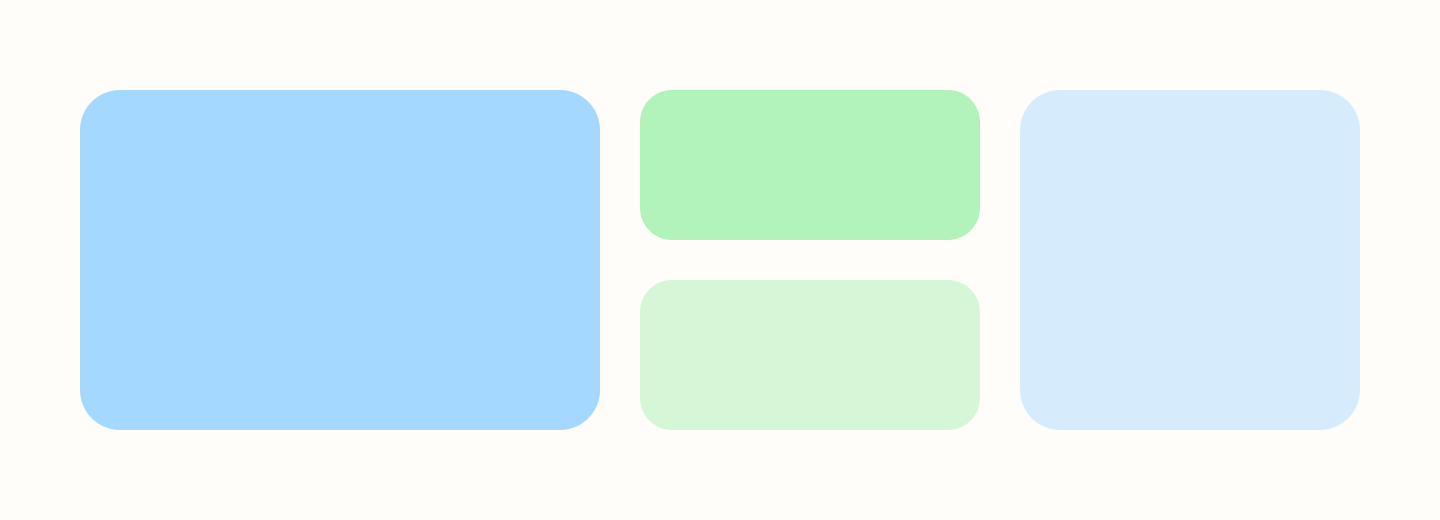
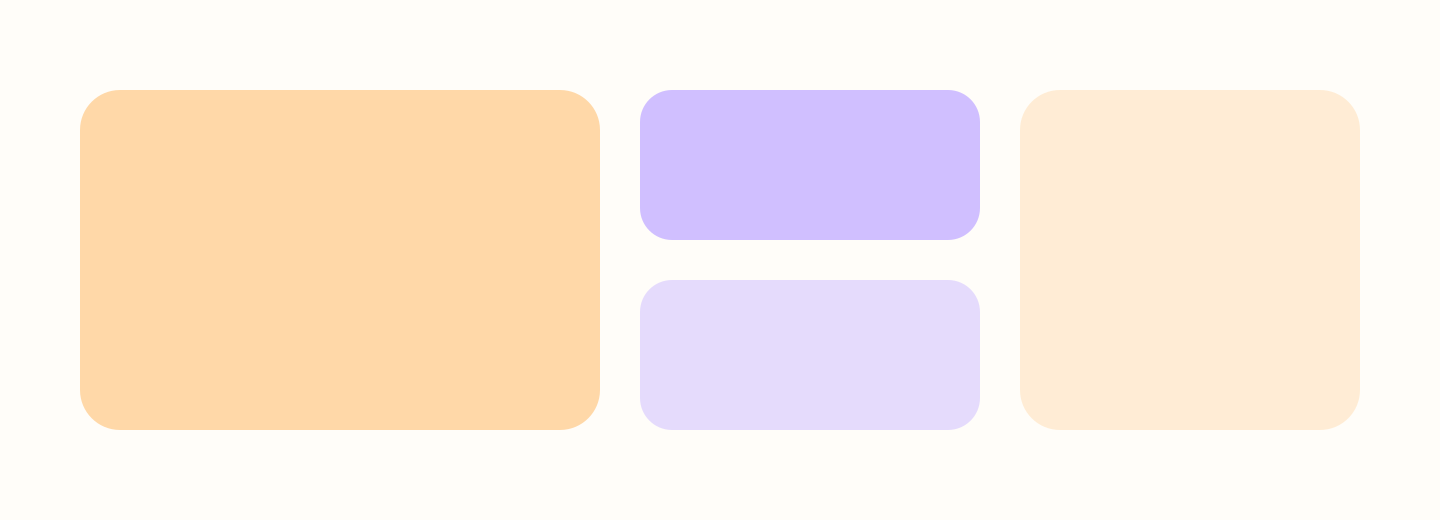
content(blog): best start pages in 2026 listicle; tick Wave 5 in the roadmap
Also expands the banner palette (frontend/scripts/banner-palette.mjs) so
the four Wave-5 posts stop hash-colliding into identical thumbnails, and
verifies the five originally-published banners stay byte-identical.

Claude-Session: https://claude.ai/code/session_018xGUqZse2QXBPHcTCpKf1t

diff --git a/frontend/src/app/features/marketing/content.generated.ts b/frontend/src/app/features/marketing/content.generated.ts
@@ -102,6 +102,29 @@ export const GUIDES: ContentDoc[] = [
 
 export const POSTS: ContentDoc[] = [
   {
+    "slug": "best-start-pages-2026",
+    "title": "The best start pages in 2026",
+    "description": "An honest look at the start pages and dashboard tools worth using in 2026 — what each one is actually for, what the free tiers include, and how to pick.",
+    "date": "2026-08-02",
+    "category": "Comparison",
+    "readingMinutes": 8,
+    "faq": [
+      {
+        "q": "What's the best free start page?",
+        "a": "It depends on what you're trying to do, not which one wins outright. Toby's free plan gives you 60 saved tabs and unlimited members; Workona's free plan gives you 5 project spaces used forever below that cap; start.me's free plan gives you three ad-supported start pages with unlimited widgets and bookmarks; TulipLot's free plan gives you five live cells plus one ad. All four cost nothing to start, and the right one depends on which job matches your day."
+      },
+      {
+        "q": "Do any of these work without creating an account?",
+        "a": "TulipLot does: the try page gives you two live cells with no account required, saved to that browser only, and it carries into your account automatically if you sign up later. That's the one entry on this list we can confirm doesn't need a signup, because it's ours and we control the page."
+      },
+      {
+        "q": "Is a browser start page still worth using in 2026?",
+        "a": "For plenty of people, yes, though not always in the portal-page sense the term used to mean. If your day is a handful of sites you check constantly, a dashboard or start page keeps them in one predictable place instead of buried in a pile of tabs. If it's genuinely just two or three sites, your browser's built-in start page or a couple of bookmarks already covers it, and none of the tools above are solving a real problem for you."
+      }
+    ],
+    "html": "<p>&quot;Best browser start page&quot; searches turn up lists that all do the same thing: rank five or six tools by opinion and call it done. That&#39;s not very useful, because these tools aren&#39;t actually competing for the same job. Some save tabs you&#39;ll reopen later. Some group tabs into projects you save and restore. Some build a page out of bookmarks and widgets. One renders the actual sites live, all at once, in a fixed grid.</p>\n<p>So instead of a ranked list, here&#39;s a list organized by what you&#39;re actually trying to do, with real prices and real limits for each tool, not marketing copy. One of the entries below is ours. We&#39;ll say so plainly when we get there, and it isn&#39;t first.</p>\n<h2>Start with what your browser already gives you</h2>\n<p>Before installing anything, know what&#39;s already free. Every major browser lets you set a start page, a home page, or a new tab page in its own settings, no extension required, and pinning a tab or bookmarking a handful of sites covers plenty of people&#39;s actual routine. If your day genuinely comes down to two or three sites, that built-in setup is the right answer, and everything below is solving a problem you may not have. <a href=\"/blog/what-is-a-browser-start-page\">What is a browser start page</a> covers the differences between those three browser settings in more detail if you want it.</p>\n<h2>If you save more tabs than you use: Toby</h2>\n<p>Toby&#39;s own pitch is &quot;Stop Drowning in Tabs,&quot; and that&#39;s an honest description of the job: you save a tab&#39;s link into a Toby collection, close the tab, and reopen the saved link whenever you actually need it again. It&#39;s a tool for people whose browser fills up with research links, articles, and reference tabs faster than they can use them.</p>\n<p>The free &quot;Starter&quot; plan costs nothing and lets you save and manage up to 60 tabs across all your collections, with no cap on how many members can join the account. Past that limit, Productivity is $6 per member per month, or $4.50 per member per month billed yearly ($54/year), and removes the 60-tab ceiling along with adding advanced search and duplicate removal. Team runs $10 per member per month, or $8 billed yearly, and adds SSO and centralized billing. Toby prices per seat because it&#39;s built as a collaboration tool, so those team-tier numbers scale with how many people share your collections, not with what one person alone would pay.</p>\n<h2>If you&#39;re juggling several ongoing projects: Workona</h2>\n<p>Workona&#39;s framing is &quot;Get your tabs under control,&quot; and it does that by grouping a project&#39;s tabs into a Space that auto-saves as you work and syncs across your devices. Close it down, pick it back up next week, and it&#39;s exactly how you left it. It&#39;s built for people running more than one active project at a time, each with its own cluster of tabs worth keeping organized rather than scattered across the tab bar.</p>\n<p>The free plan is real, tucked into a pricing-page FAQ rather than shown as its own plan card, and capped at 5 spaces; Workona&#39;s own FAQ says it &quot;can be used forever&quot; below that cap, it just won&#39;t let you create a new space once you hit it. Pro is listed as &quot;Starting at $7 / month,&quot; confirmed to be the annual-billed rate, and adds unlimited spaces, 90-day session backups, and integrations. Team starts at $8 per user per month with a 3-user minimum, again priced for groups rather than one person.</p>\n<h2>If you want a tidy page of links and widgets: start.me</h2>\n<p>start.me calls itself, in its own title tag, a &quot;Bookmark Manager, Custom Start Page &amp; New Tab,&quot; and its hero line sums up the pitch: &quot;All your important links, one click away.&quot; You build a page out of mostly first-party widgets, weather, RSS feeds, notes, bookmark groups, and click through to whatever those bookmarks point at. It&#39;s a genuinely mature product: a July 2026 changelog alone shipped a bookmark clean-up tool, a rebuilt Notes editor, new timer and page-introduction widgets, wider 7-column layouts, and AI-driven site suggestions.</p>\n<p>The free plan costs nothing, includes advertising by start.me&#39;s own description, and caps you at three personal start pages, though widgets and bookmarks inside those three pages are unlimited. Personal PRO is $25 a year (about $2.08 a month), removes the ads, unlocks unlimited pages, and adds 27 PRO-only features and widgets. Team is $25 a month billed annually for 10 users, a different, group-priced product.</p>\n<h2>If you want a handful of sites live and visible all day: TulipLot</h2>\n<p>This one&#39;s ours, so take the framing with that in mind: TulipLot doesn&#39;t save tabs, group them into projects, or build a page out of widgets. It renders. A TulipLot dashboard is a fixed 3×2 grid, six cells, and whatever sits in a cell is a live, interactive version of that actual site: an inbox showing new mail as it arrives, a calendar you click straight into, not a saved link or a bookmark pointing at either one.</p>\n<p>Free accounts get five usable cells plus one ad cell fixed in the bottom-right slot; Premium drops the ad and unlocks all six for $4 a month. You can also try it with no account at all: two live cells load immediately at <a href=\"/try\">/try</a>, saved to that browser only, and they carry into your dashboard automatically if you sign up later. Every cell fills from a built-in catalog or from any HTTPS URL you paste in yourself, and the free TulipLot Companion, a Chrome extension, unlocks embedding for many sites that would otherwise refuse to load in a frame. Not every site can be embedded this way, though: a handful of major login-gated services, Gmail and Google Calendar among them, never allow embedding under any circumstances and become one-click launchers instead, a cell you click to open the site in its own tab rather than seeing it live inline. If your problem is a small set of sites you check constantly rather than a growing pile of things to save, that&#39;s the job this fills.</p>\n<h2>Single-user pricing, side by side</h2>\n<p>These four charge for genuinely different things, so treat this as a price reference, not proof any one is a better deal. A &quot;60 tabs vs 5 spaces vs 3 pages vs 5 cells&quot; row would count four unrelated things as if they were the same unit, so free-tier specifics are covered in each section above instead; this table sticks to price, where a single-user comparison is fair. Toby and Workona price per team member, so the figures below are what one person alone would pay on the plan built for solo use, not the team price.</p>\n<table>\n<thead>\n<tr>\n<th>Tool</th>\n<th>Free plan</th>\n<th>Paid plan, single user</th>\n</tr>\n</thead>\n<tbody><tr>\n<td>Toby</td>\n<td>$0</td>\n<td>Productivity: $6/month, or $4.50/month billed yearly ($54/year)</td>\n</tr>\n<tr>\n<td>Workona</td>\n<td>$0</td>\n<td>Pro: starting at $7/month, annual-billed</td>\n</tr>\n<tr>\n<td>start.me</td>\n<td>$0, includes advertising</td>\n<td>Personal PRO: $25/year (about $2.08/month)</td>\n</tr>\n<tr>\n<td>TulipLot</td>\n<td>$0, includes one ad cell</td>\n<td>Premium: $4/month</td>\n</tr>\n</tbody></table>\n<h2>How to pick</h2>\n<p>If your problem is too many tabs piling up faster than you can use them, Toby solves that. If it&#39;s several ongoing projects each needing their own saved, restorable set of tabs, that&#39;s Workona&#39;s job. If you want a tidy home page of organized links, weather, and notes, start.me does that well and has for a while. And if the problem isn&#39;t saving or organizing anything, it&#39;s wanting a handful of specific sites open and live at the same time every day, that&#39;s what TulipLot is for. None of these are mutually exclusive; plenty of people reasonably run two at once, one for what they&#39;re not actively using and one for what they check constantly.</p>\n<h2>How we&#39;ll keep this current</h2>\n<p>Prices and free-tier limits change, and a stale &quot;best of&quot; list is worse than no list at all. We review this page quarterly and re-verify every price and limit against each vendor&#39;s own site before touching a word.</p>\n<h2>Questions people ask</h2>\n<h3>What&#39;s the best free start page?</h3>\n<p>It depends on what you&#39;re trying to do, not which one wins outright. Toby&#39;s free plan gives you 60 saved tabs and unlimited members; Workona&#39;s free plan gives you 5 project spaces used forever below that cap; start.me&#39;s free plan gives you three ad-supported start pages with unlimited widgets and bookmarks; TulipLot&#39;s free plan gives you five live cells plus one ad. All four cost nothing to start, and the right one depends on which job matches your day.</p>\n<h3>Do any of these work without creating an account?</h3>\n<p>TulipLot does: <a href=\"/try\">the try page</a> gives you two live cells with no account required, saved to that browser only, and it carries into your account automatically if you sign up later. That&#39;s the one entry on this list we can confirm doesn&#39;t need a signup, because it&#39;s ours and we control the page.</p>\n<h3>Is a browser start page still worth using in 2026?</h3>\n<p>For plenty of people, yes, though not always in the portal-page sense the term used to mean. If your day is a handful of sites you check constantly, a dashboard or start page keeps them in one predictable place instead of buried in a pile of tabs. If it&#39;s genuinely just two or three sites, your browser&#39;s built-in start page or a couple of bookmarks already covers it, and none of the tools above are solving a real problem for you.</p>\n<p>Whichever job matches your day, pick the tool built for it rather than whichever one ranks first on a list. If that&#39;s a handful of sites you want open and live at once, <a href=\"/try\">try TulipLot</a> with no account, or see exactly what <a href=\"/guides/premium-vs-free\">Free and Premium</a> each include before deciding.</p>\n"
+  },
+  {
     "slug": "gmail-and-calendar-side-by-side",
     "title": "Gmail and Google Calendar side by side",
     "description": "Google's own side-panel, a second window, and a dashboard launcher — three honest ways to keep mail and calendar in view at once, including what Google won't let you embed.",

diff --git a/content/blog/best-start-pages-2026.md b/content/blog/best-start-pages-2026.md
@@ -1,0 +1,75 @@
+---
+title: The best start pages in 2026
+slug: best-start-pages-2026
+description: An honest look at the start pages and dashboard tools worth using in 2026 — what each one is actually for, what the free tiers include, and how to pick.
+date: 2026-08-02
+category: Comparison
+---
+# The best start pages in 2026
+
+"Best browser start page" searches turn up lists that all do the same thing: rank five or six tools by opinion and call it done. That's not very useful, because these tools aren't actually competing for the same job. Some save tabs you'll reopen later. Some group tabs into projects you save and restore. Some build a page out of bookmarks and widgets. One renders the actual sites live, all at once, in a fixed grid.
+
+So instead of a ranked list, here's a list organized by what you're actually trying to do, with real prices and real limits for each tool, not marketing copy. One of the entries below is ours. We'll say so plainly when we get there, and it isn't first.
+
+## Start with what your browser already gives you
+
+Before installing anything, know what's already free. Every major browser lets you set a start page, a home page, or a new tab page in its own settings, no extension required, and pinning a tab or bookmarking a handful of sites covers plenty of people's actual routine. If your day genuinely comes down to two or three sites, that built-in setup is the right answer, and everything below is solving a problem you may not have. [What is a browser start page](/blog/what-is-a-browser-start-page) covers the differences between those three browser settings in more detail if you want it.
+
+## If you save more tabs than you use: Toby
+
+Toby's own pitch is "Stop Drowning in Tabs," and that's an honest description of the job: you save a tab's link into a Toby collection, close the tab, and reopen the saved link whenever you actually need it again. It's a tool for people whose browser fills up with research links, articles, and reference tabs faster than they can use them.
+
+The free "Starter" plan costs nothing and lets you save and manage up to 60 tabs across all your collections, with no cap on how many members can join the account. Past that limit, Productivity is $6 per member per month, or $4.50 per member per month billed yearly ($54/year), and removes the 60-tab ceiling along with adding advanced search and duplicate removal. Team runs $10 per member per month, or $8 billed yearly, and adds SSO and centralized billing. Toby prices per seat because it's built as a collaboration tool, so those team-tier numbers scale with how many people share your collections, not with what one person alone would pay.
+
+## If you're juggling several ongoing projects: Workona
+
+Workona's framing is "Get your tabs under control," and it does that by grouping a project's tabs into a Space that auto-saves as you work and syncs across your devices. Close it down, pick it back up next week, and it's exactly how you left it. It's built for people running more than one active project at a time, each with its own cluster of tabs worth keeping organized rather than scattered across the tab bar.
+
+The free plan is real, tucked into a pricing-page FAQ rather than shown as its own plan card, and capped at 5 spaces; Workona's own FAQ says it "can be used forever" below that cap, it just won't let you create a new space once you hit it. Pro is listed as "Starting at $7 / month," confirmed to be the annual-billed rate, and adds unlimited spaces, 90-day session backups, and integrations. Team starts at $8 per user per month with a 3-user minimum, again priced for groups rather than one person.
+
+## If you want a tidy page of links and widgets: start.me
+
+start.me calls itself, in its own title tag, a "Bookmark Manager, Custom Start Page & New Tab," and its hero line sums up the pitch: "All your important links, one click away." You build a page out of mostly first-party widgets, weather, RSS feeds, notes, bookmark groups, and click through to whatever those bookmarks point at. It's a genuinely mature product: a July 2026 changelog alone shipped a bookmark clean-up tool, a rebuilt Notes editor, new timer and page-introduction widgets, wider 7-column layouts, and AI-driven site suggestions.
+
+The free plan costs nothing, includes advertising by start.me's own description, and caps you at three personal start pages, though widgets and bookmarks inside those three pages are unlimited. Personal PRO is $25 a year (about $2.08 a month), removes the ads, unlocks unlimited pages, and adds 27 PRO-only features and widgets. Team is $25 a month billed annually for 10 users, a different, group-priced product.
+
+## If you want a handful of sites live and visible all day: TulipLot
+
+This one's ours, so take the framing with that in mind: TulipLot doesn't save tabs, group them into projects, or build a page out of widgets. It renders. A TulipLot dashboard is a fixed 3×2 grid, six cells, and whatever sits in a cell is a live, interactive version of that actual site: an inbox showing new mail as it arrives, a calendar you click straight into, not a saved link or a bookmark pointing at either one.
+
+Free accounts get five usable cells plus one ad cell fixed in the bottom-right slot; Premium drops the ad and unlocks all six for $4 a month. You can also try it with no account at all: two live cells load immediately at [/try](/try), saved to that browser only, and they carry into your dashboard automatically if you sign up later. Every cell fills from a built-in catalog or from any HTTPS URL you paste in yourself, and the free TulipLot Companion, a Chrome extension, unlocks embedding for many sites that would otherwise refuse to load in a frame. Not every site can be embedded this way, though: a handful of major login-gated services, Gmail and Google Calendar among them, never allow embedding under any circumstances and become one-click launchers instead, a cell you click to open the site in its own tab rather than seeing it live inline. If your problem is a small set of sites you check constantly rather than a growing pile of things to save, that's the job this fills.
+
+## Single-user pricing, side by side
+
+These four charge for genuinely different things, so treat this as a price reference, not proof any one is a better deal. A "60 tabs vs 5 spaces vs 3 pages vs 5 cells" row would count four unrelated things as if they were the same unit, so free-tier specifics are covered in each section above instead; this table sticks to price, where a single-user comparison is fair. Toby and Workona price per team member, so the figures below are what one person alone would pay on the plan built for solo use, not the team price.
+
+| Tool | Free plan | Paid plan, single user |
+|---|---|---|
+| Toby | $0 | Productivity: $6/month, or $4.50/month billed yearly ($54/year) |
+| Workona | $0 | Pro: starting at $7/month, annual-billed |
+| start.me | $0, includes advertising | Personal PRO: $25/year (about $2.08/month) |
+| TulipLot | $0, includes one ad cell | Premium: $4/month |
+
+## How to pick
+
+If your problem is too many tabs piling up faster than you can use them, Toby solves that. If it's several ongoing projects each needing their own saved, restorable set of tabs, that's Workona's job. If you want a tidy home page of organized links, weather, and notes, start.me does that well and has for a while. And if the problem isn't saving or organizing anything, it's wanting a handful of specific sites open and live at the same time every day, that's what TulipLot is for. None of these are mutually exclusive; plenty of people reasonably run two at once, one for what they're not actively using and one for what they check constantly.
+
+## How we'll keep this current
+
+Prices and free-tier limits change, and a stale "best of" list is worse than no list at all. We review this page quarterly and re-verify every price and limit against each vendor's own site before touching a word.
+
+## Questions people ask
+
+### What's the best free start page?
+
+It depends on what you're trying to do, not which one wins outright. Toby's free plan gives you 60 saved tabs and unlimited members; Workona's free plan gives you 5 project spaces used forever below that cap; start.me's free plan gives you three ad-supported start pages with unlimited widgets and bookmarks; TulipLot's free plan gives you five live cells plus one ad. All four cost nothing to start, and the right one depends on which job matches your day.
+
+### Do any of these work without creating an account?
+
+TulipLot does: [the try page](/try) gives you two live cells with no account required, saved to that browser only, and it carries into your account automatically if you sign up later. That's the one entry on this list we can confirm doesn't need a signup, because it's ours and we control the page.
+
+### Is a browser start page still worth using in 2026?
+
+For plenty of people, yes, though not always in the portal-page sense the term used to mean. If your day is a handful of sites you check constantly, a dashboard or start page keeps them in one predictable place instead of buried in a pile of tabs. If it's genuinely just two or three sites, your browser's built-in start page or a couple of bookmarks already covers it, and none of the tools above are solving a real problem for you.
+
+Whichever job matches your day, pick the tool built for it rather than whichever one ranks first on a list. If that's a handful of sites you want open and live at once, [try TulipLot](/try) with no account, or see exactly what [Free and Premium](/guides/premium-vs-free) each include before deciding.

diff --git a/docs/seo/2026-08-01-seo-audit-remediation.md b/docs/seo/2026-08-01-seo-audit-remediation.md
@@ -112,10 +112,12 @@ Highest-leverage new pages first; each targets a SERP currently held by forums, 
 
 ## Wave 5 — Commercial content (~3 days)
 
-- [ ] **5.1 "TulipLot vs Toby / Toby alternative"** — Toby's 60-tab free-plan cap is churning users *now*; Workona ranks with its own vs-Toby page, so owned head-to-head pages demonstrably work in this cluster. Honest feature/price table.
-- [ ] **5.2 "TulipLot vs Workona / Workona alternative"** — Toby's own page ranks for this; the lane is proven.
-- [ ] **5.3 "TulipLot vs start.me / start.me alternative"** — hardest of the three (aggregators dominate); do last.
-- [ ] **5.4 "Best start pages in 2026" listicle** — small fresh blogs (pivotab, cutedesk, startpagehq) outrank all incumbents on this family; include competitors honestly, refresh quarterly (set a reminder in the doc when shipped).
+- [x] **5.1 "TulipLot vs Toby / Toby alternative"** — Toby's 60-tab free-plan cap is churning users *now*; Workona ranks with its own vs-Toby page, so owned head-to-head pages demonstrably work in this cluster. Honest feature/price table.
+- [x] **5.2 "TulipLot vs Workona / Workona alternative"** — Toby's own page ranks for this; the lane is proven.
+- [x] **5.3 "TulipLot vs start.me / start.me alternative"** — hardest of the three (aggregators dominate); do last.
+- [x] **5.4 "Best start pages in 2026" listicle** — small fresh blogs (pivotab, cutedesk, startpagehq) outrank all incumbents on this family; include competitors honestly, refresh quarterly (set a reminder in the doc when shipped). **Refresh reminder: next review 2026-11-02** — re-verify every price and limit in `docs/seo/2026-08-02-competitor-facts-verified.md` against each vendor's own site before that date, update the verified-facts file first, then update this listicle and the three comparison pages (5.1–5.3) for any number that changed.
+
+> **Wave 5 status (2026-08-02): implemented on `feature/seo-wave-5` (10 commits), pending deploy.** Four new pages: `tuliplot-vs-toby`, `tuliplot-vs-workona`, `tuliplot-vs-start-me`, `best-start-pages-2026`. Every competitor claim traces to `docs/seo/2026-08-02-competitor-facts-verified.md`; the three forbidden claims (Toby's stale "5 members" cap, "$6/month" for Workona Pro, the "10 spaces to 5" story as Workona's own statement) do not appear anywhere in the four pages, nor do the two unsourced-inference claims caught and fixed mid-branch (Toby "requires an account"; the Workona closed-Space tab lifecycle). Boxes tick after live verification per this doc's convention; ticked here on implementation, to be confirmed again after merge + deploy per the plan's post-merge verification step (curl each URL, confirm H1 + FAQ text in served HTML). Sitemap: 21 URLs after this wave (`node scripts/build-content.mjs` output), matching the plan's expected total. Suite: 48 test files / 185 tests green, including the banner-palette pin and stability tests.
 
 ## Wave 6 — Off-site + owner actions
 
